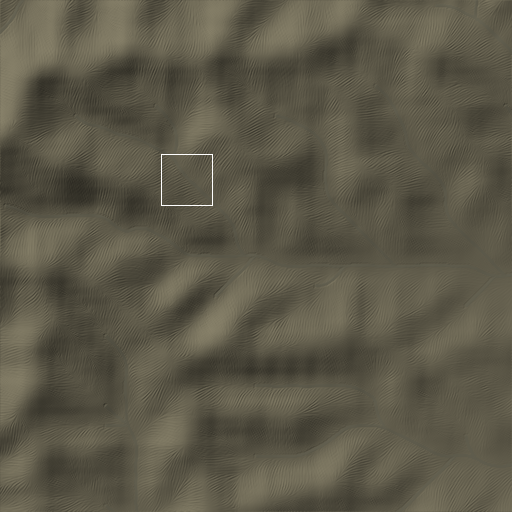
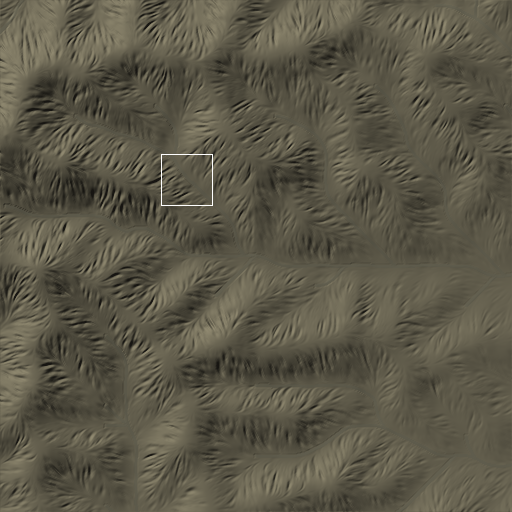
terrain: rebuild near-field gully noise for mountains; heightmap export
- detail: one V-shaped trough per feature (random width/depth/length,
  clustered presence) instead of a sinusoid, zero-mean per octave; depth
  follows the parent slope (^1.5) to avoid gully self-feedback. L3 fine
  relief now matches the self-similar extrapolation from L2 (~4x before)
- tools/export-heightmap.mjs + png.writePng16: 16-bit height PNG, meta
  JSON and colour PNG per level (round-trip checked)
- ladder.pickCenter: 'forest-mountain' site; throws when no candidate
- preview: higher 'L3 low' preset
- HANDOFF/ROADMAP and review images updated

Claude-Session: https://claude.ai/code/session_01WZDQpZq5BWDRkKD3NpUL8x

diff --git a/planet-source/terrain/HANDOFF.md b/planet-source/terrain/HANDOFF.md
@@ -1,6 +1,6 @@
 # 引き継ぎ: 地形コア（terrain/）
 
-更新: 2026-10-14（2回目: T2最小版3Dプレビューと不具合修正）。次のインスタンスは、この文書と [ROADMAP.md](ROADMAP.md) から作業を始める。
+更新: 2026-10-14（3回目: 山地の近景の溝ノイズを作り直し、エンジン向け書き出し、森林山地の地点）。次のインスタンスは、この文書と [ROADMAP.md](ROADMAP.md) から作業を始める。
 
 ## 1. 目的とユーザーの要望
 
@@ -35,12 +35,23 @@
 | 惑星 L0（N=512、約20km/セル） | プレート（ゆがめたボロノイ・オイラー極）、収束・発散境界による隆起、大陸棚・海溝・海嶺、緯度と内陸度による降水、侵食120ステップ | 良好。大陸、山脈、島弧、砂漠と森林の帯、氷床が出ている。`map-planet-1-N512.png` |
 | L1（400km、約781m/セル） | `amplifyRegion`: 親の低周波に合わせ直しながら侵食する | 良好。樹状の水系 |
 | L2（40km、約78m/セル） | 同上 | 良好。実際の山岳地帯の陰影図に近い。3Dでも開析された山地に見える（`view3d-mountain-L2.png`） |
-| L3（4km、約7.8m/セル） | `createNearField`: 計算式による近景 | **3Dで見ると未達がはっきりした**。丸い丘の上に規則的な細かい波紋（卵パック状）が乗り、低い視点では砂丘の海に見える（`view3d-mountain-L3low.png`）。丘陵地も同じ傾向が弱く出る |
-| L4（0.4km、約0.78m/セル） | 同上 | 斜面に沿うリル・溝は3Dでもそれらしい（`view3d-mountain-L4.png`）。L3との詳細量の差が継ぎ目として見える |
+| L3（4km、約7.8m/セル） | `createNearField`: 計算式による近景 | **3回目で改善**。尾根が谷底まで溝で刻まれた山地に見えるようになった（`view3d-forest-mountain-L3.png`, `view3d-mountain-L3.png`）。残る問題: 真上から見ると溝が短い平行線の「毛並み」で、樹状に合流しない（`ladder-...-forest-mountain-L3.png`）。岩の露頭・崖はまだない |
+| L4（0.4km、約0.78m/セル） | 同上 | 急斜面のリル・溝・小尾根はそれらしい（`view3d-forest-mountain-L4.png`）。L3との詳細量の差が継ぎ目として見える |
 
 3Dプレビュー（T2最小版）: `preview/`（WebGL2）。L1〜L4を入れ子で表示し、曲率、太陽光と天空光、水面の反射、高さ依存のもや（空気遠近）を付けた。影はまだない。
 
 自動テストはまだない。検証は、縮尺比較の画像と3Dのスクリーンショットを目で確認する方法と、`tools/probe-seams.mjs`（近景ノイズの継ぎ目の数値検査）。
+
+### 3回目: 近景の溝ノイズの作り直し（`src/detail.mjs`）
+- **数値の診断**: 細かい起伏（5セル平均からの残差のRMS）が、L2の自己相似な外挿（L2の値×0.1^0.75〜0.85）に比べてL3で約4分の1しかなかった（forest-mountainでL2 17.0m → L3 0.62m、期待値は約2〜3m）。傾斜もL3のp99が0.53〜0.78で、実際の山地の8m DEMより緩い。
+- **変更**: 正弦波の縞をやめ、特徴点1つにつき斜面方向に伸びる**V字の谷1本**（幅・深さ・長さはランダム、出現はゆるやかなノイズで群れる）にした。谷どうしが接する所に鋭い小尾根ができる。オクターブごとに平均を引いて親の低周波を保つ。深さは**親（L2）の傾斜**に比例させた（1.5乗、上限あり）。変化する傾斜で深さを決めると、溝が溝を深くする正帰還になったため。傾斜の向きは従来どおり更新し、枝分かれさせる。
+- **結果**（残差RMS / 傾斜p90）: forest-mountain L3 1.83m / 0.78、L4 0.21m / 1.08。mountain L3 1.21m、hills L3 1.33m。継ぎ目の検査（`probe-seams.mjs`）は比0.9〜1.0のまま。
+- パラメータ: `createNearField(R, { gullyDepth = 0.16 })`。
+
+### 3回目のその他（サブエージェントに委任した実装を含む）
+- `tools/export-heightmap.mjs`（Sonnetに委任）: シーンから段ごとに16bitグレースケールPNG（その段の最小〜最大で線形量子化）、メタJSON（`terrain-heightmap@1`、`height_m = minH + value * heightScale`）、色PNGを書き出す。往復誤差が量子化幅の半分以内であることを検査済み。`tools/png.mjs` に `writePng16` を追加。
+- 地点 `forest-mountain`（Haikuに委任、閾値は私が修正）: 標高900〜2600m、緯度25〜42度、降水0.45以上。この惑星では南緯39.8度・西経154.1度。標高約2000mで年平均気温は約2℃なので、色は高山帯（森林限界付近）になる。候補がないときは例外を出す。
+- プレビューの「L3 low」プリセットを少し高く（距離0.6、俯角12度）した。手前の丘で視界が塞がれるため。
 
 ### 2回目の作業で直した不具合（後方互換なし。出力が変わる）
 1. **惑星の侵食で陸の53%が深さ5m超の湖になっていた**（`src/erosion.mjs` の `routeFlow`）。平坦地に付ける傾き（イプシロン）を `2e-5 * distScale` で決めていたが、惑星では `distScale` が半径（6371km）なので1セルあたり約127mになっていた。辺の実長（m）×2e-5（最小2mm）に直した。湖は5%に減り、地図はコミット済みの旧画像とほぼ同じ見た目に戻った（HANDOFF §6.4の精度対策を入れたときに混入したと推定。旧画像はその前の生成と思われる）。
@@ -67,6 +78,7 @@ terrain/
   tools/ladder.mjs        縮尺の階段（中心の選び方、L1〜L4の生成、色付け）。zoom-ladderとexport-sceneで共用
   tools/zoom-ladder.mjs   縮尺比較の2D画像（惑星→L1→L2→L3→L4）
   tools/export-scene.mjs  3Dプレビュー用のシーン（L1〜L4の高さf32とRGBA）を書き出す
+  tools/export-heightmap.mjs  シーンからエンジン向けの16bit高さPNG＋メタJSON＋色PNG
   tools/serve.mjs         プレビュー用の静的サーバー（127.0.0.1:8787）
   tools/shoot-scene.mjs   ヘッドレスChromium（Playwright）でプレビューのスクリーンショットを撮る
   tools/probe-seams.mjs   近景ノイズのセル境界の段差を数値で検査する
@@ -83,13 +95,15 @@ node --max-old-space-size=2048 terrain/tools/zoom-ladder.mjs planet-1-N512 mount
 node --max-old-space-size=2048 terrain/tools/export-scene.mjs planet-1-N512 mountain  # 約60秒、8MiB
 node terrain/tools/serve.mjs     # → http://127.0.0.1:8787/preview/?scene=planet-1-N512-mountain
 node terrain/tools/shoot-scene.mjs planet-1-N512-mountain 1,2,3,4,5,6   # 任意。Playwrightが必要
+node terrain/tools/export-heightmap.mjs planet-1-N512-mountain             # エンジン向け16bit PNG
+# 地点: mountain / hills / forest-mountain / 緯度 経度
 ```
 
 - `terrain/out/` はgit管理外。上の手順で再生成できる。
 - プレビューの操作: ドラッグで回転、右ドラッグ/Shift+ドラッグで移動、ホイールで拡大縮小、1〜6で視点プリセット（L1, L2, L3, L4, L3低視点, 地上）、Hでパネル。URL引数 `preset, exag, sunAz, sunEl, haze, ui=0`。
 - 入れ子の表示: 親は子の範囲を描かず、子は外周8%を親の高さと傾きに寄せ（geomorph）、外周にスカートを垂らす。カメラから各段の幅の2倍以上離れた段は描かない（細かい起伏のエイリアス防止）。
 - 2回目の作業はクラウドのLinuxコンテナ（Node 22.22、メモリ16GiB、開始前の空き約15GiB）で行った。Cドライブ・G:ドライブは存在しない環境。ピークメモリは未計測。重い処理は1つずつ実行した。起動したChromiumとサーバーは各実行の終わりに閉じた（残存プロセスなしを確認）。
-- 担当表のCodex/OpenCodeはこの環境で使えないため、2回目はグラフィックを含めすべて自分（Claude）で実装した。
+- 担当表のCodex/OpenCodeはこの環境で使えないため、2回目はグラフィックを含めすべて自分（Claude）で実装した。3回目はユーザーの指示で、簡単な実装をSonnet（16bit書き出し）とHaiku（地点の追加）に委任した。設計と近景の改良は自分で行った。
 
 ## 6. 試して分かったこと（同じ失敗を繰り返さないために）
 
@@ -105,10 +119,10 @@ node terrain/tools/shoot-scene.mjs planet-1-N512-mountain 1,2,3,4,5,6   # 任意
 
 ## 7. 次にやること（推奨順）
 
-1. **山地の近景（T1）**: 3Dで未達が確定した。症状は (a) L3の丸い丘に規則的な波紋が乗る（溝ノイズの周期が一定で、振幅が小さく、どの斜面にも一様に付く）、(b) 岩の露頭・崖・崖錐がない。案: 急斜面に尾根状ノイズで岩を足す／溝の間隔をばらつかせ、集水面積に応じて深くする／L3を「刻むだけ」のシミュレーションでタイル生成する。評価は `export-scene` → `shoot-scene` の p3, p5（L3低視点）と2Dの縮尺比較の両方で行う。
-2. **プレビューの改善（T2の残り）**: 影（シャドウマップ）、L3とL4の詳細量の差による継ぎ目、地上視点での川岸の鋸歯、Workerでのその場生成とタイルのストリーミング、エンジン向け書き出し（16bit高さとメタJSON）。担当表ではグラフィックはCodex xhighの担当。
-3. **タイルの継ぎ目**: 立方体の面の座標でタイルのキーを決める（面・段階・i・j）。世界座標のノイズは既に一致しているので、重なり部分を混合する。`planetSampler` は面をまたいでも滑らか。
-4. 海岸の細部、湖、氷河、雨陰（T1の残り）。その後T3（土地被覆）、T4（集落・道路。旧実装のL0/L1人口分布と、地形に沿った近隣配置を再利用候補として参照する）。
+1. **山地の近景の続き（T1）**: (a) 溝を樹状に合流させる（いまは短い平行線で、真上から見ると毛並み状）。案: 細かいオクターブの溝を、粗いオクターブの谷の軸へ向けて曲げる／L3を「刻むだけ」の短いシミュレーションで作る。(b) 岩の露頭・崖・崖錐: 親の傾斜が大きい所だけに尾根状ノイズを足し、色も最終的な傾斜で岩にする。評価は forest-mountain の p3, p4 と2DのL3。
+2. **プレビューの改善（T2の残り）**: 影、L3とL4の詳細量の差による継ぎ目、地上視点での川岸の鋸歯、Workerでのその場生成とタイルのストリーミング。
+3. **タイルの継ぎ目**: 立方体の面の座標でタイルのキーを決める（面・段階・i・j）。
+4. 海岸の細部、湖、氷河、雨陰（T1の残り）。その後T3（土地被覆）、T4（集落・道路）。
 
 ## 8. リポジトリ外にあるもの
 

diff --git a/planet-source/terrain/ROADMAP.md b/planet-source/terrain/ROADMAP.md
@@ -31,7 +31,9 @@
 - 結論として、8m程度の細かい縮尺は解析的に作るほうが安定する。
 
 **残り**
-- **山地の近景**: 4km程度の縮尺で、岩の露頭・崖錐・雪渓の細部が足りず、ぼやけて見える。3D表示では、規則的な溝ノイズが波紋・砂丘のように見えることも分かった。急斜面にだけ尾根状のノイズで岩を加えるか、L3を「刻むだけ」のシミュレーションでタイル生成する案を比べる。上から見た陰影図は粗が目立ちやすいので、評価はT2の3D表示で行う。
+- **山地の近景**: 4km程度の縮尺で、岩の露頭・崖錐・雪渓の細部が足りず、ぼやけて見える。3D表示では、規則的な溝ノイズが波紋・砂丘のように見えることも分かった。
+  - 済（3回目）: 溝ノイズを「特徴点ごとのV字の谷」に作り直し、細かい起伏の量をL2からの自己相似な外挿に合わせた。3Dで山地らしく見える。
+  - 残り: 溝の樹状の合流、岩の露頭・崖。急斜面にだけ尾根状のノイズで岩を加えるか、L3を「刻むだけ」のシミュレーションでタイル生成する案を比べる。上から見た陰影図は粗が目立ちやすいので、評価はT2の3D表示で行う。
 - **隣接タイルの継ぎ目**: 立方体の面の座標でタイルのキーを決め、重なり部分を混合する。面の境界でも正しく標本化する。
 - 海岸の細部、湖（氷河湖・構造湖）、氷河地形、卓越風と雨陰。
 - 受け入れ条件: 平野・丘陵・山地・海岸・乾燥地の5地点で縮尺比較を行い、実際の地形と比べて大きな違和感がないこと。
@@ -44,7 +46,7 @@
 - 影、段の間の詳細量の差による継ぎ目。
 - 立方体球の四分木タイルを、Workerでその場生成してストリーミングする（WebGL2）。
 - 法線による陰影、大気散乱、空気遠近。縮尺比較用のカメラプリセット。
-- エンジン向けの書き出し（16bit高さとメタJSON）。描画の判断は、担当表に従いGUI・グラフィック担当へ渡す。
+- エンジン向けの書き出し（16bit高さとメタJSON）。済（3回目、`tools/export-heightmap.mjs`）。描画の判断は、担当表に従いGUI・グラフィック担当へ渡す。
 
 ### T3 土地被覆
 - 気候と地形（傾斜、流量、標高）から、森林・草地・湿地・岩場・雪の分布を縮尺ごとに矛盾なく作る。生態の遷移帯も含める。
